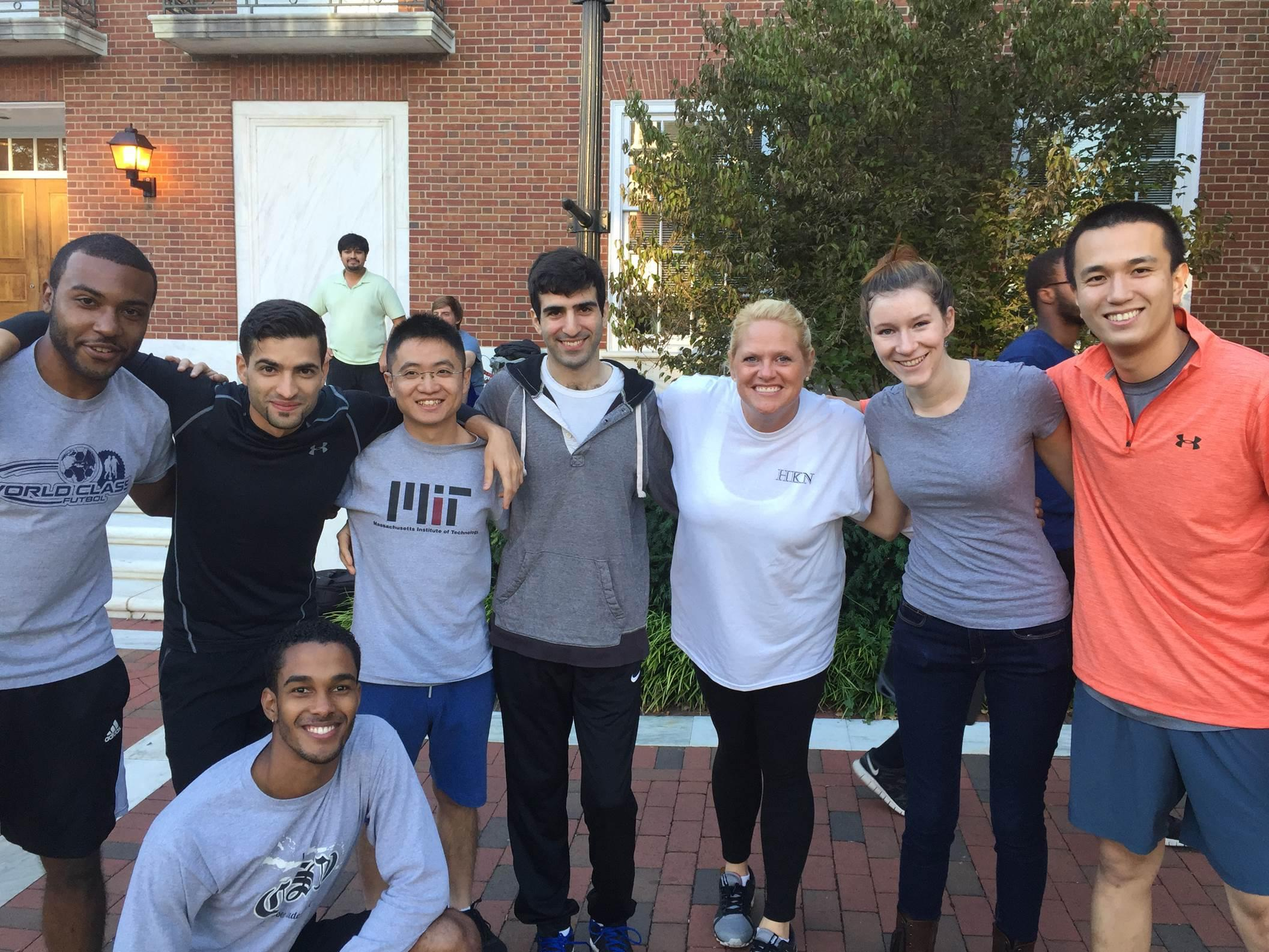
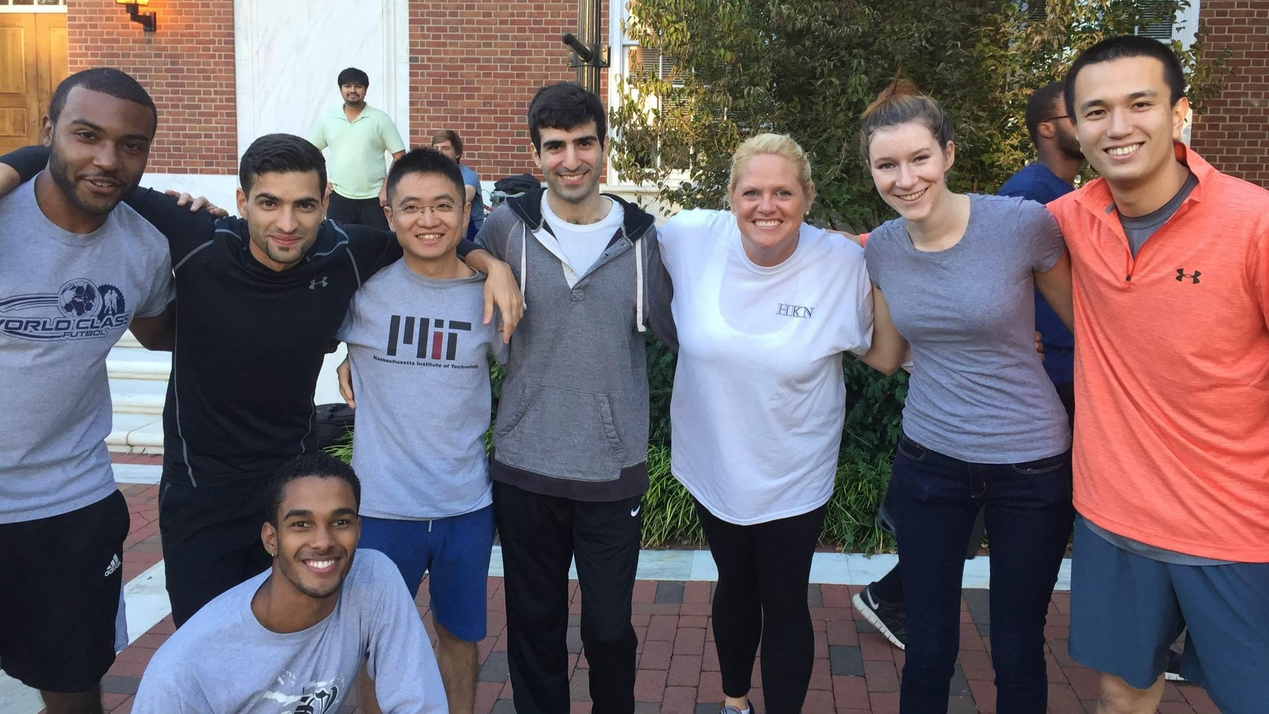
Fixed images for team carousel.

diff --git a/src/components/daisyui/image-carousel.tsx b/src/components/daisyui/image-carousel.tsx
@@ -24,7 +24,13 @@ const ImageCarousel: React.FC = () => {
         edges {
           node {
             childImageSharp {
-              gatsbyImageData(height: 280, layout: CONSTRAINED, formats: [AUTO, WEBP], placeholder: BLURRED)
+              gatsbyImageData(
+                width: 1280
+                height: 720
+                layout: CONSTRAINED
+                formats: [AUTO, WEBP]
+                placeholder: BLURRED
+              )
             }
             relativePath
           }
@@ -85,6 +91,7 @@ const ImageCarousel: React.FC = () => {
         <GatsbyImage
           image={images[currentIndex].image}
           alt={images[currentIndex].alt}
+          style={{ height: '100%', width: '100%' }}
           className={`transition-opacity duration-300 ${fade ? 'opacity-0' : 'opacity-100'} rounded-lg`}
         />
       </div>
